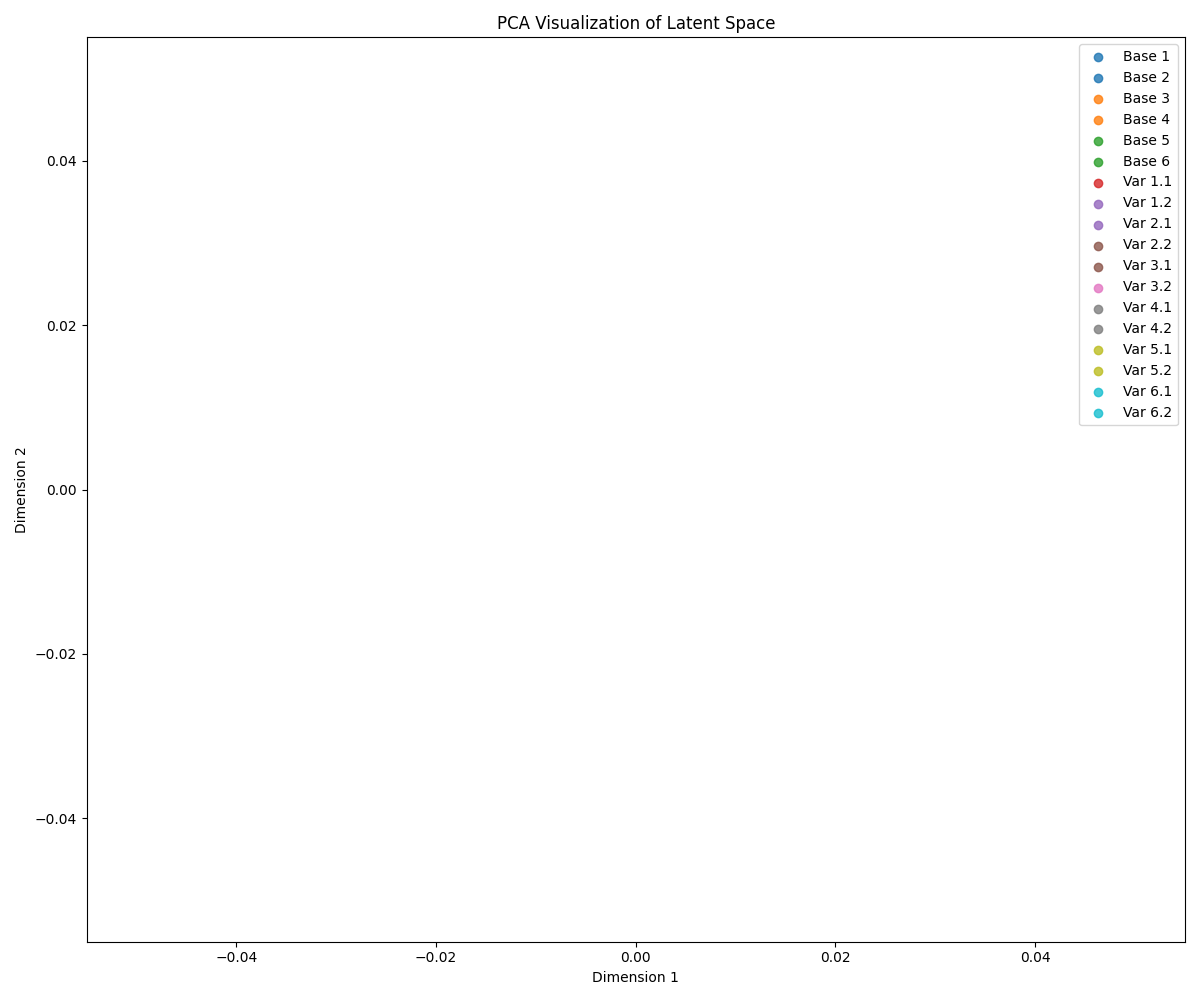
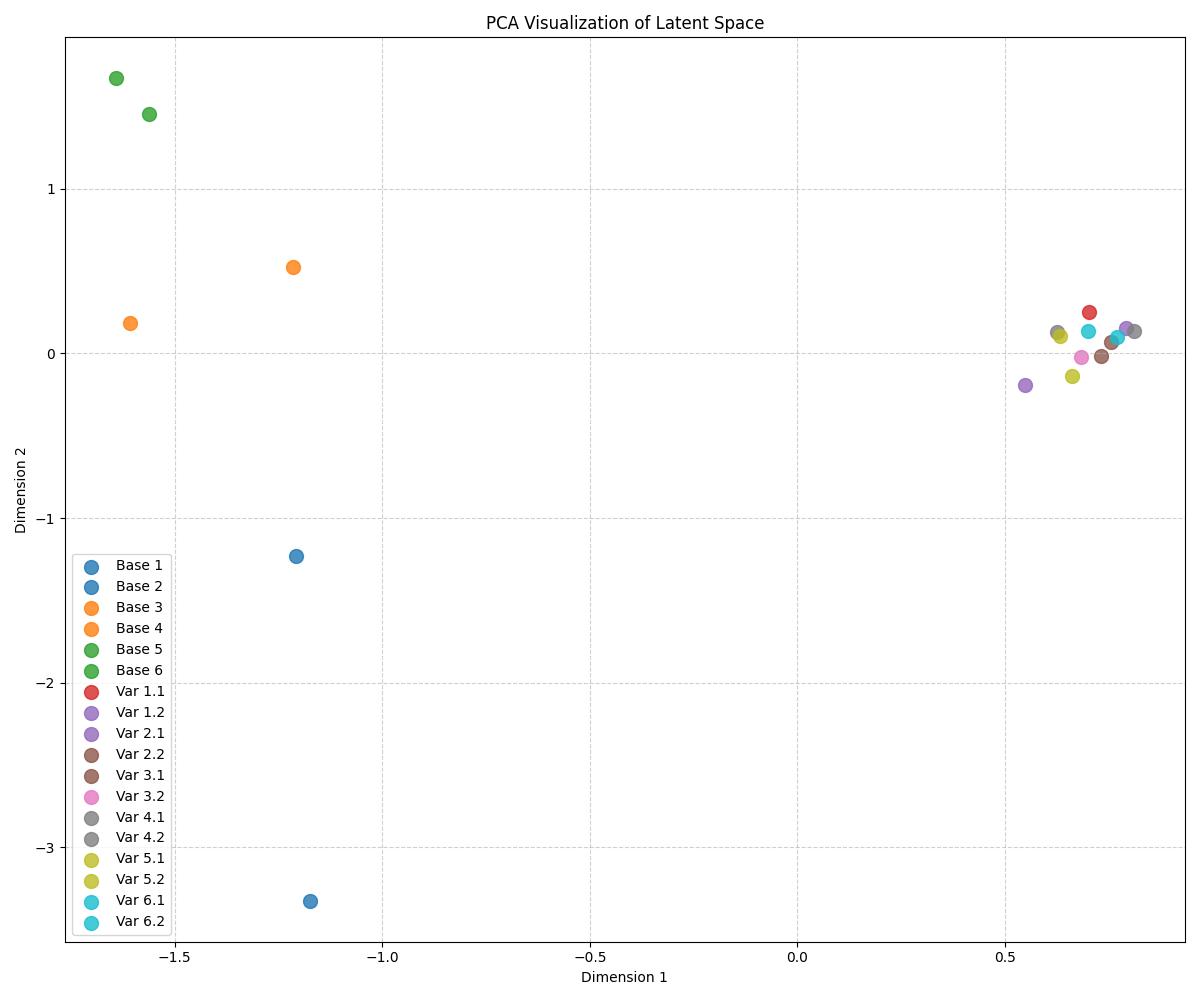
visualization correction

diff --git a/utils/visualization.py b/utils/visualization.py
@@ -5,6 +5,7 @@ from matplotlib.colors import ListedColormap
 from sklearn.decomposition import PCA
 from sklearn.manifold import TSNE
 import seaborn as sns
+from sklearn.preprocessing import StandardScaler
 
 class VisualizationUtils:
     """
@@ -34,10 +35,20 @@ class VisualizationUtils:
         if isinstance(embeddings, torch.Tensor):
             embeddings = embeddings.detach().cpu().numpy()
             
+        # Add small random noise to embeddings to ensure they're not identical
+        # This helps when embeddings are very similar or when using a pre-trained model
+        # without fine-tuning
+        noise_scale = 1e-4
+        np.random.seed(42)  # For reproducibility
+        embeddings = embeddings + np.random.normal(0, noise_scale, embeddings.shape)
+        
         # Reduce dimensions
         if method == "pca":
             reducer = PCA(n_components=2)
             reduced_embeddings = reducer.fit_transform(embeddings)
+            # Get explained variance
+            explained_variance = reducer.explained_variance_ratio_
+            print(f"PCA explained variance: {explained_variance[0]:.4f}, {explained_variance[1]:.4f}")
             method_name = "PCA"
         elif method == "tsne":
             # Compute an appropriate perplexity value - must be less than the number of samples
@@ -45,14 +56,24 @@ class VisualizationUtils:
             perplexity = min(30, max(5, n_samples // 3))  # Between 5 and 30, or n_samples/3
             print(f"Using t-SNE with perplexity={perplexity} for {n_samples} samples")
             
-            reducer = TSNE(n_components=2, perplexity=perplexity, random_state=42)
+            # Use stronger exaggeration to better separate clusters
+            reducer = TSNE(n_components=2, perplexity=perplexity, random_state=42,
+                         early_exaggeration=12.0, learning_rate=200.0, n_iter=2000)
             reduced_embeddings = reducer.fit_transform(embeddings)
             method_name = "t-SNE"
         else:
             raise ValueError(f"Unsupported dimensionality reduction method: {method}")
+        
+        # Scale the reduced embeddings to better spread the points
+        # This ensures points don't all cluster at the origin
+        scaler = StandardScaler()
+        reduced_embeddings = scaler.fit_transform(reduced_embeddings)
             
         # Create figure
         fig, ax = plt.subplots(figsize=figsize)
+        
+        # Increase marker size for better visibility
+        markersize = 100
         
         # Color points by label if provided
         if labels is not None:
@@ -60,14 +81,15 @@ class VisualizationUtils:
             cmap = plt.get_cmap(colormap, len(unique_labels))
             
             for i, label in enumerate(unique_labels):
-                mask = labels == label
+                mask = np.array([l == label for l in labels])
                 ax.scatter(
                     reduced_embeddings[mask, 0],
                     reduced_embeddings[mask, 1],
                     c=[cmap(i)],
                     label=label,
                     marker=marker,
-                    alpha=alpha
+                    alpha=alpha,
+                    s=markersize
                 )
             ax.legend()
         else:
@@ -75,22 +97,18 @@ class VisualizationUtils:
                 reduced_embeddings[:, 0],
                 reduced_embeddings[:, 1],
                 marker=marker,
-                alpha=alpha
+                alpha=alpha,
+                s=markersize
             )
+        
+        # Add grid for better readability
+        ax.grid(True, linestyle='--', alpha=0.6)
             
-        # Add text annotations if labels are strings
-        if labels is not None and isinstance(labels[0], str):
-            for i, txt in enumerate(labels):
-                ax.annotate(txt, (reduced_embeddings[i, 0], reduced_embeddings[i, 1]))
-                
         # Set title and labels
-        if title:
-            ax.set_title(title)
-        else:
-            ax.set_title(f"Embeddings visualized with {method_name}")
-            
-        ax.set_xlabel(f"Dimension 1")
-        ax.set_ylabel(f"Dimension 2")
+        method_title = f"{method_name} Visualization of Latent Space"
+        ax.set_title(title if title is not None else method_title)
+        ax.set_xlabel("Dimension 1")
+        ax.set_ylabel("Dimension 2")
         
         plt.tight_layout()
         return fig
